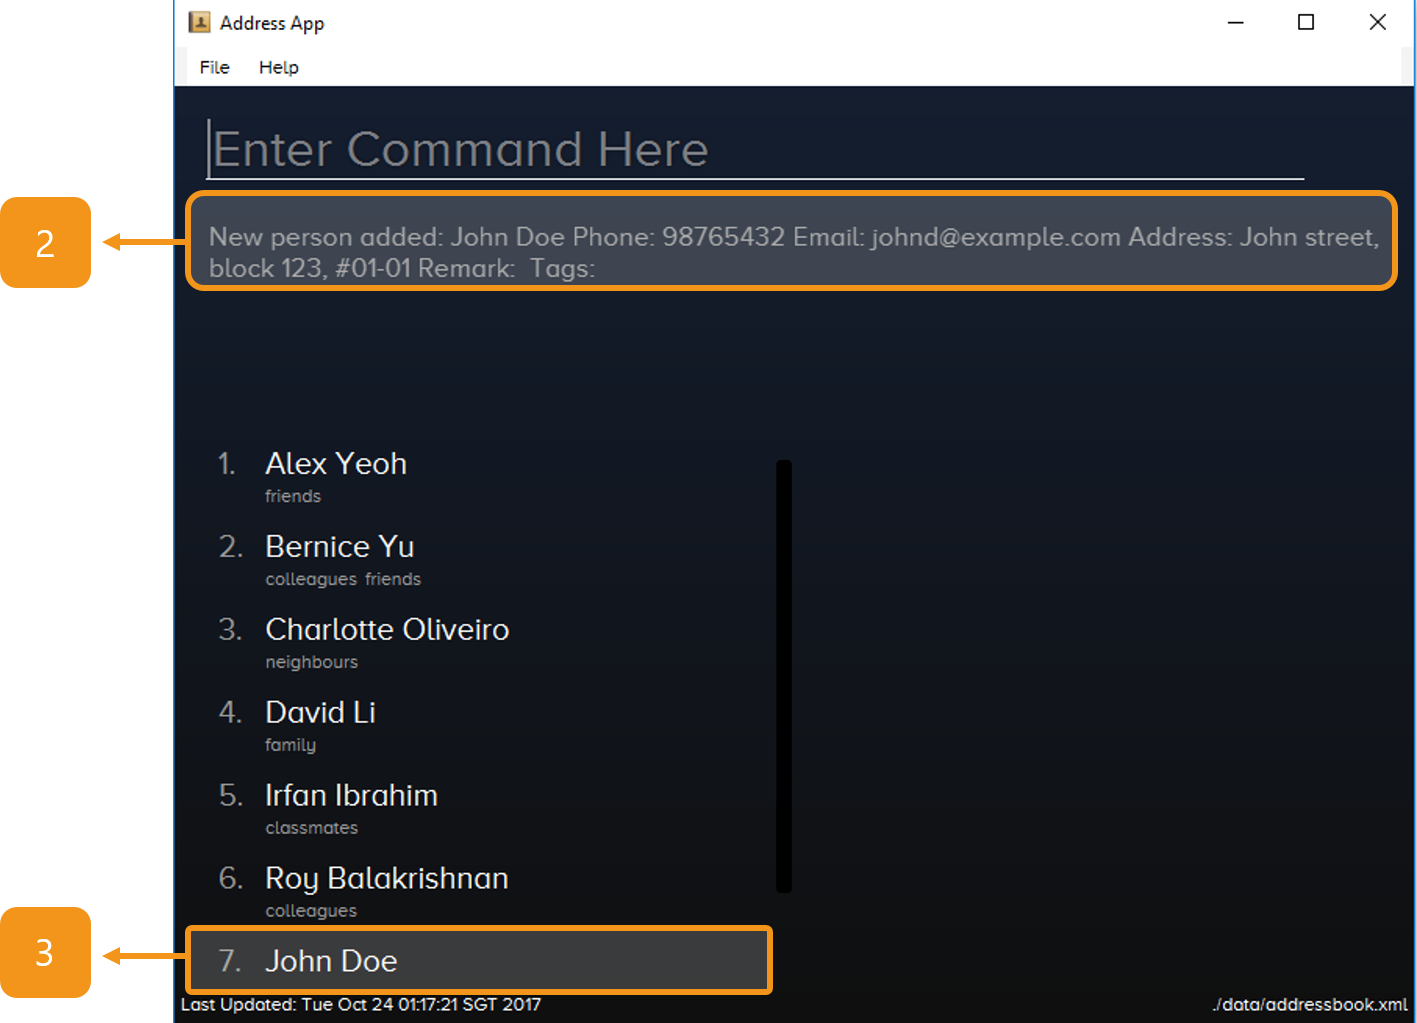
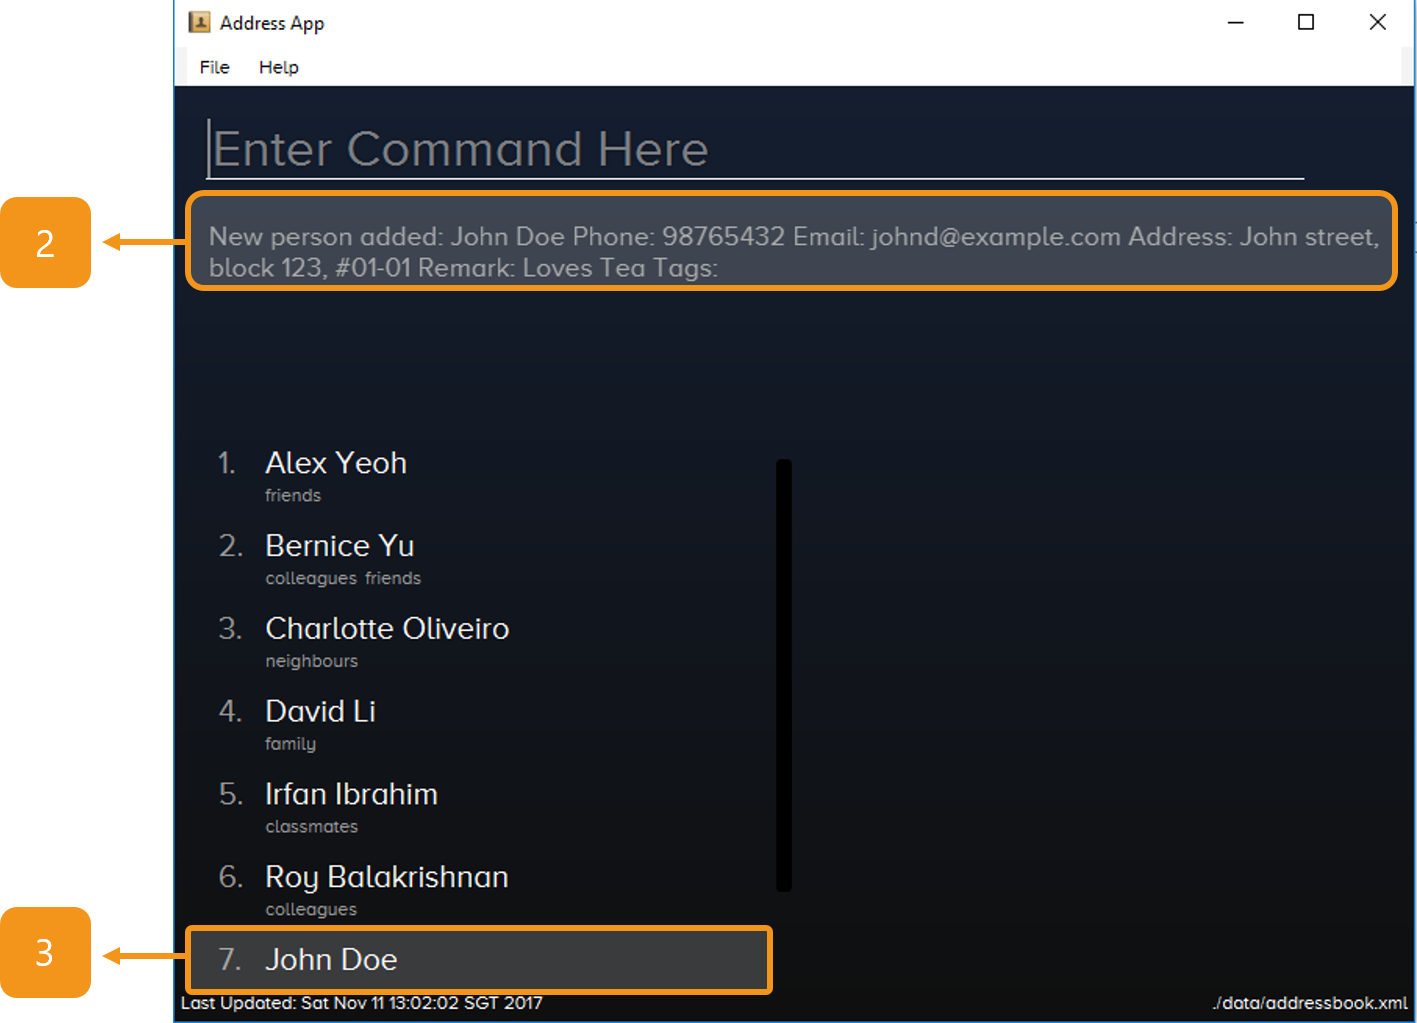
Logic: Updated print out to include remarks in Edit and Add command

diff --git a/src/main/java/seedu/address/model/person/ReadOnlyPerson.java b/src/main/java/seedu/address/model/person/ReadOnlyPerson.java
@@ -61,6 +61,8 @@ public interface ReadOnlyPerson {
                 .append(getEmail())
                 .append(" Address: ")
                 .append(getAddress())
+                .append(" Remark: ")
+                .append(getRemark())
                 .append(" Tags: ");
         getTags().forEach(builder::append);
         return builder.toString();
